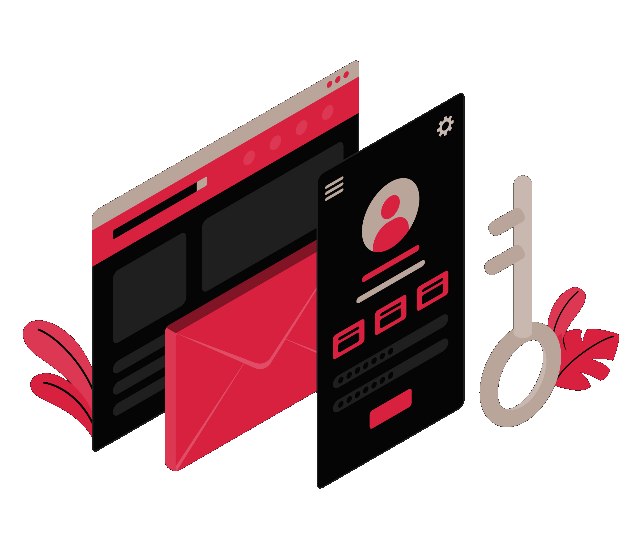
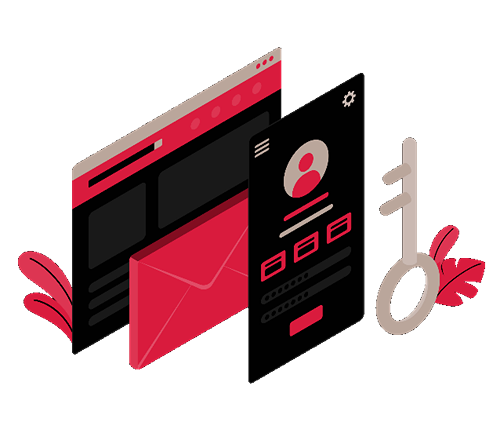
Optimizing project images - Creating standalone app-image component with NgOptimizedImage - Adjusting image sizes to only have necessary resolutions

diff --git a/src/app/shared/page.module.ts b/src/app/shared/page.module.ts
@@ -1,4 +1,4 @@
-import { CommonModule, DatePipe, DecimalPipe, NgOptimizedImage, PercentPipe } from '@angular/common';
+import { CommonModule, DatePipe, DecimalPipe } from '@angular/common';
 import { NgModule } from '@angular/core';
 import { CardComponent } from '../components/custom/card/card.component';
 import { ImageComponent } from '../components/custom/image/image.component';
@@ -8,34 +8,34 @@ import { TitleComponent } from '../components/custom/title/title.component';
 import { CardLayoutComponent } from '../components/layout/card-layout/card-layout.component';
 import { PageLayoutComponent } from './../components/layout/page-layout/page-layout.component';
 
-import { MatGridListModule } from '@angular/material/grid-list';
-import { MatSidenavModule } from '@angular/material/sidenav';
-import { MatFormFieldModule } from '@angular/material/form-field';
-import { MatInputModule } from '@angular/material/input';
 import { MatButtonModule } from '@angular/material/button';
-import { MatSelectModule } from '@angular/material/select';
-import { MatSnackBarModule } from '@angular/material/snack-bar';
-import { MatIconModule } from '@angular/material/icon';
 import { MatDialogModule } from '@angular/material/dialog';
+import { MatFormFieldModule } from '@angular/material/form-field';
+import { MatGridListModule } from '@angular/material/grid-list';
+import { MatIconModule } from '@angular/material/icon';
+import { MatInputModule } from '@angular/material/input';
 import { MatPaginatorModule } from '@angular/material/paginator';
 import { MatProgressSpinnerModule } from '@angular/material/progress-spinner';
+import { MatSelectModule } from '@angular/material/select';
+import { MatSidenavModule } from '@angular/material/sidenav';
+import { MatSnackBarModule } from '@angular/material/snack-bar';
 
 import { RouterModule } from '@angular/router';
+import { ButtonComponent } from '../components/custom/buttons/button/button.component';
 import { CardsGridComponent } from '../components/custom/cards-grid/cards-grid.component';
 import { NavItemsComponent } from '../components/custom/nav-items/nav-items.component';
-import { ButtonComponent } from '../components/custom/buttons/button/button.component';
 
 import { FormsModule, ReactiveFormsModule } from '@angular/forms';
+import { BreadcrumbComponent } from '../components/custom/breadcrumb/breadcrumb.component';
 import { IconComponent } from '../components/custom/icon/icon.component';
+import { LoadingComponent } from '../components/custom/loading/loading.component';
+import { ModalConfirmComponent, ModalFeedbackComponent } from '../components/custom/modals';
+import { PaginationComponent } from '../components/custom/pagination/pagination.component';
 import { TableComponent } from '../components/custom/table/table.component';
-import { ModalFeedbackComponent, ModalConfirmComponent } from '../components/custom/modals';
 import { ModalLayoutComponent } from '../components/layout/modal-layout/modal-layout.component';
 import { FocusInitialDirective, SetIdDirective } from '../directives';
-import { PaginationComponent } from '../components/custom/pagination/pagination.component';
-import { LoadingComponent } from '../components/custom/loading/loading.component';
-import { BreadcrumbComponent } from '../components/custom/breadcrumb/breadcrumb.component';
-import { DynamicPipe } from '../pipes/dynamic.pipe';
 import { GetPipe, TimePipe } from '../pipes';
+import { DynamicPipe } from '../pipes/dynamic.pipe';
 
 @NgModule({
   declarations: [
@@ -44,8 +44,6 @@ import { GetPipe, TimePipe } from '../pipes';
     MainHeaderComponent,
     TitleComponent,
     CardComponent,
-    CardLayoutComponent,
-    ImageComponent,
     CardsGridComponent,
     NavItemsComponent,
     ButtonComponent,
@@ -79,7 +77,8 @@ import { GetPipe, TimePipe } from '../pipes';
     MatDialogModule,
     MatPaginatorModule,
     MatProgressSpinnerModule,
-    NgOptimizedImage,
+    ImageComponent,
+    CardLayoutComponent,
   ],
   exports: [
     SidebarComponent,
@@ -87,7 +86,6 @@ import { GetPipe, TimePipe } from '../pipes';
     MainHeaderComponent,
     TitleComponent,
     CardComponent,
-    CardLayoutComponent,
     ImageComponent,
     CardsGridComponent,
     NavItemsComponent,

diff --git a/src/app/pages/home/home.component.ts b/src/app/pages/home/home.component.ts
@@ -2,7 +2,7 @@ import { Component } from '@angular/core';
 import { Router } from '@angular/router';
 import { Card } from 'src/app/models';
 import { ModalService } from 'src/app/services/modal.service';
-import { Pages, successModalData } from 'src/app/util';
+import { Pages, homeCards, successModalData } from 'src/app/util';
 
 @Component({
   selector: 'app-home',
@@ -10,29 +10,7 @@ import { Pages, successModalData } from 'src/app/util';
   styleUrls: ['./home.component.scss'],
 })
 export class HomeComponent {
-  cards: Card[] = [
-    {
-      id: 'cCardTimesheet',
-      title: 'Timesheets',
-      content: 'Your registered timesheets',
-      imgUrl: '/assets/img/timesheets.png',
-      url: Pages.Timesheets,
-    },
-    {
-      id: 'cCardProfile',
-      title: 'Profiles',
-      content: 'Create and edit your productivity profiles',
-      imgUrl: '/assets/img/profiles.png',
-      url: Pages.Profiles,
-    },
-    {
-      id: 'cCardMetric',
-      title: 'Metrics',
-      content: 'Your weekly productivity metrics',
-      imgUrl: '/assets/img/metrics.png',
-      url: Pages.Metrics,
-    },
-  ];
+  cards: Card[] = homeCards;
 
   constructor(private router: Router, private modalService: ModalService) {}
 

diff --git a/src/app/app.module.ts b/src/app/app.module.ts
@@ -2,7 +2,6 @@ import { NgModule } from '@angular/core';
 import { BrowserModule } from '@angular/platform-browser';
 import jwtDecode from 'jwt-decode';
 
-import { DatePipe, NgOptimizedImage, PercentPipe } from '@angular/common';
 import { HTTP_INTERCEPTORS, HttpClientModule } from '@angular/common/http';
 import { FormsModule, ReactiveFormsModule } from '@angular/forms';
 import { BrowserAnimationsModule } from '@angular/platform-browser/animations';
@@ -17,9 +16,6 @@ import { LocalStorageService } from './services';
 import { STORE_SERVICE } from './services/interfaces';
 import { TOKEN_DECODER_FN } from './services/token.service';
 import { PageModule } from './shared';
-import { DynamicPipe } from './pipes/dynamic.pipe';
-import { TimePipe } from './pipes/time.pipe';
-import { GetPipe } from './pipes/get.pipe';
 
 @NgModule({
   declarations: [AppComponent, HomeComponent, NotFoundComponent],
@@ -31,7 +27,6 @@ import { GetPipe } from './pipes/get.pipe';
     PageModule,
     AppRoutingModule,
     HttpClientModule,
-    NgOptimizedImage,
   ],
   exports: [PageModule],
   providers: [

diff --git a/src/app/components/custom/image/image.component.ts b/src/app/components/custom/image/image.component.ts
@@ -1,11 +1,38 @@
+import { NgOptimizedImage } from '@angular/common';
 import { Component, Input } from '@angular/core';
+import { Image } from 'src/app/models';
 
 @Component({
-  selector: 'app-image',
+  selector: 'app-image [image]',
   templateUrl: './image.component.html',
-  styleUrls: ['./image.component.scss']
+  styleUrls: ['./image.component.scss'],
+  standalone: true,
+  imports: [NgOptimizedImage],
 })
 export class ImageComponent {
-  @Input() imageUrl = '/assets/img/placeholder.png';
-  @Input() imageAlt = '';
+  @Input() image!: Image | undefined;
+
+  get src(): string {
+    return this.image?.src ?? '/assets/img/placeholder.png';
+  }
+
+  get alt(): string {
+    return this.image?.alt ?? 'placeholder';
+  }
+
+  get width(): number |undefined {
+    return this.image?.width ?? undefined;
+  }
+
+  get height(): number |undefined {
+    return this.image?.height ?? undefined;
+  }
+
+  get priority(): string | boolean {
+    return this.image?.priority ?? false;
+  }
+
+  get fill(): boolean {
+    return !this.width || !this.height;
+  }
 }

diff --git a/src/app/util/constants/card-defaults.ts b/src/app/util/constants/card-defaults.ts
@@ -1,0 +1,41 @@
+import { Pages } from './pages';
+
+const homeCards = [
+  {
+    id: 'cCardTimesheet',
+    title: 'Timesheets',
+    content: 'Your registered timesheets',
+    url: Pages.Timesheets,
+    image: {
+      src: '/assets/img/timesheets.jpg',
+      priority: true,
+      width: 278,
+      height: 152,
+    },
+  },
+  {
+    id: 'cCardProfile',
+    title: 'Profiles',
+    content: 'Create and edit your productivity profiles',
+    url: Pages.Profiles,
+    image: {
+      src: '/assets/img/profiles.jpg',
+      width: 278,
+      height: 152,
+    },
+  },
+  {
+    id: 'cCardMetric',
+    title: 'Metrics',
+    content: 'Your weekly productivity metrics',
+    url: Pages.Metrics,
+    image: {
+      src: '/assets/img/metrics.jpg',
+      priority: true,
+      width: 278,
+      height: 152,
+    },
+  },
+];
+
+export { homeCards };

diff --git a/src/app/components/layout/auth-page-layout/auth-page-layout.component.scss b/src/app/components/layout/auth-page-layout/auth-page-layout.component.scss
@@ -1,6 +1,6 @@
-$image-width: 500px;
-$content-min-width: 280px;
-$page: 784px;
+$image-width: 638px;
+$content-min-width: 344px;
+$page: $image-width + $content-min-width;
 
 .auth-container {
   display: flex;
@@ -11,18 +11,16 @@ $page: 784px;
   display: flex;
   justify-content: center;
   align-items: center;
-  flex: 4;
+  flex: 1;
 
-  img {
+  app-image {
     width: $image-width;
   }
 }
 
 .page-content {
   display: flex;
-  flex: 1;
   flex-direction: column;
-  width: 100%;
   min-width: $content-min-width;
   background: var(--secondary-dark);
   color: #fff;
@@ -32,15 +30,11 @@ $page: 784px;
 }
 
 @media screen and (max-width: $page) {
-  .auth-container {
-    flex-direction: column;
+  .page-content {
+    flex: 1;
   }
 
   .side-image {
-    flex: 1;
-
-    img {
-      width: 460px;
-    }
+    display: none;
   }
 }

diff --git a/src/app/components/layout/auth-page-layout/auth-page-layout.component.ts b/src/app/components/layout/auth-page-layout/auth-page-layout.component.ts
@@ -1,6 +1,7 @@
 import { Component, OnInit } from '@angular/core';
 import { NavigationEnd, Router } from '@angular/router';
 import { filter, tap } from 'rxjs/operators';
+import { Image } from 'src/app/models';
 import { paths } from 'src/app/util';
 
 @Component({
@@ -10,6 +11,14 @@ import { paths } from 'src/app/util';
 })
 export class AuthPageLayoutComponent implements OnInit {
   switchPageLabel = 'Already have an account? Login';
+
+  authImage: Image = {
+    src: 'assets/img/auth-bg.png',
+    alt: 'auth',
+    priority: true,
+    width: 500,
+    height: 429,
+  };
 
   get isLoginPage(): boolean {
     return this.router.url === paths.login;

diff --git a/src/app/shared/crud-page.module.ts b/src/app/shared/crud-page.module.ts
@@ -1,4 +1,4 @@
-import { CommonModule, NgOptimizedImage } from '@angular/common';
+import { CommonModule } from '@angular/common';
 import { NgModule } from '@angular/core';
 
 import { InputComponent } from '../components/custom/inputs/input/input.component';
@@ -8,7 +8,7 @@ import { SearchComponent } from '../components/custom/inputs/search/search.compo
 
 @NgModule({
   declarations: [InputComponent, SelectComponent, SearchComponent],
-  imports: [CommonModule, PageModule, NgOptimizedImage],
+  imports: [CommonModule, PageModule],
   exports: [InputComponent, SelectComponent, SearchComponent],
 })
 export class CrudPageModule {}

diff --git a/src/app/models/entities/profile.ts b/src/app/models/entities/profile.ts
@@ -1,11 +1,9 @@
 import { AddMap } from 'mapper-ts/lib-esm';
+import { TimePipe } from 'src/app/pipes/time.pipe';
+import { TableItemConfig } from '../configs';
+import { TableItem } from '../types';
 import { ProfilePresetTaskItem } from './profile-preset-task-item';
 import { ProfileType } from './profile-type';
-import { TableItem } from '../types';
-import { TableItemConfig } from '../configs';
-import { PercentPipe } from '@angular/common';
-import { TimePipe } from 'src/app/pipes/time.pipe';
-import { GetPipe } from 'src/app/pipes';
 
 export class Profile implements TableItem {
   id?: number;

diff --git a/src/app/components/layout/card-layout/card-layout.component.ts b/src/app/components/layout/card-layout/card-layout.component.ts
@@ -1,11 +1,14 @@
 import { Component, Input } from '@angular/core';
+import { Image } from 'src/app/models';
+import { ImageComponent } from '../../custom/image/image.component';
 
 @Component({
-  selector: 'app-card-layout',
+  selector: 'app-card-layout [image]',
   templateUrl: './card-layout.component.html',
   styleUrls: ['./card-layout.component.scss'],
+  standalone: true,
+  imports: [ImageComponent],
 })
 export class CardLayoutComponent {
-  @Input() imgUrl = '/assets/img/placeholder.png';
-  @Input() imgAlt = '';
+  @Input() image!: Image | undefined;
 }

diff --git a/src/app/components/custom/card/card.component.ts b/src/app/components/custom/card/card.component.ts
@@ -1,14 +1,11 @@
 import { Component, Input } from '@angular/core';
+import { Card } from 'src/app/models';
 
 @Component({
-  selector: 'app-card [titleText] [content]',
+  selector: 'app-card [card]',
   templateUrl: './card.component.html',
   styleUrls: ['./card.component.scss']
 })
 export class CardComponent {
-  @Input() titleText!: string;
-  @Input() content!: string;
-  @Input() imgUrl?: string;
-  @Input() imgAlt?: string;
-  @Input() url?: string;
+  @Input() card!: Card;
 }

diff --git a/src/app/components/layout/card-layout/card-layout.component.scss b/src/app/components/layout/card-layout/card-layout.component.scss
@@ -15,19 +15,6 @@
     transform: scale(1.1) rotate(1deg);
   }
 
-  .card-image {
-    display: flex;
-    justify-content: center;
-    align-items: center;
-    height: 156px;
-  }
-
-  img {
-    display: flex;
-    justify-content: center;
-    align-items: center;
-  }
-
   .card-body {
     width: 100%;
     height: 116px;
